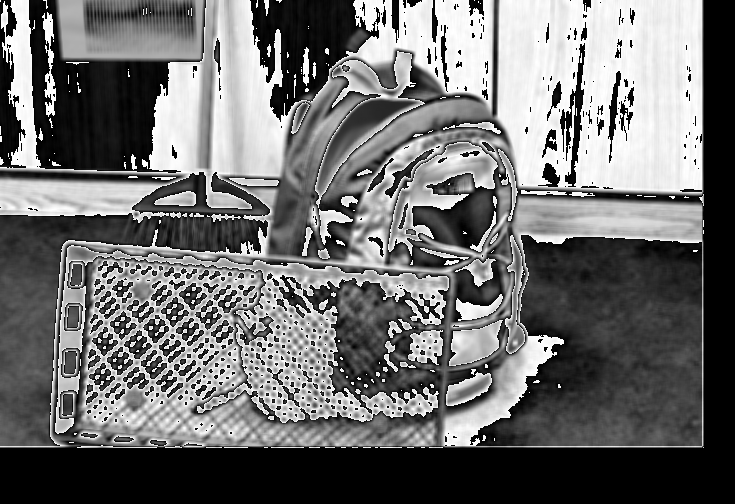
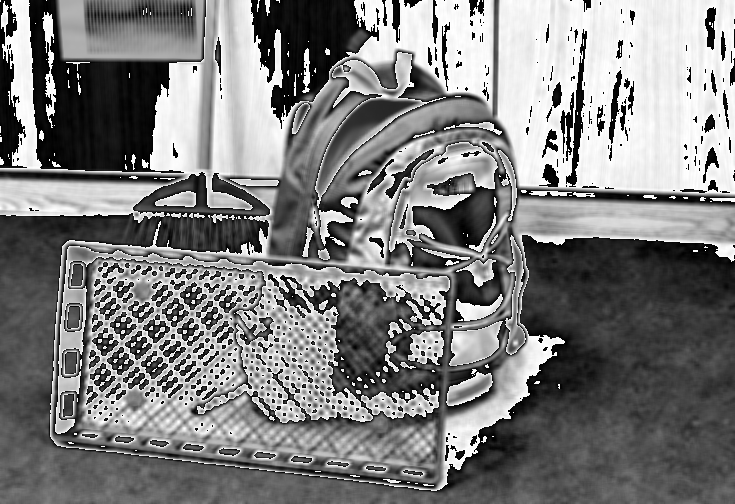
Phase 2 exercise 3 get whole image processed. Was issue with calculating segment sizes, it would usually end up in a rounding error which would chop off some part of the output.

diff --git a/phase_2/exercise_3/main.c b/phase_2/exercise_3/main.c
@@ -52,6 +52,9 @@ int main() {
     const uint32_t Wo = Wi / 4;
     const uint32_t Ho = Hi / 4;
 
+    printf("input image: %dx%d rgba\n", Wi, Hi);
+    printf("output image: %dx%d grayscale\n", Wo, Ho);
+
     // compile kernels
     // - resizing
     // - grayscaling
@@ -141,8 +144,8 @@ int main() {
     check_cl_error(err);
 
     // work will be split over N*N workers
-    // 256 seems to be optimal w.r.t execution time
-    const uint32_t N = 64;
+    // 50 seems to be optimal w.r.t execution time
+    const uint32_t N = 50;
 
     // profiling events
     cl_event downscaling_prof_evt;
